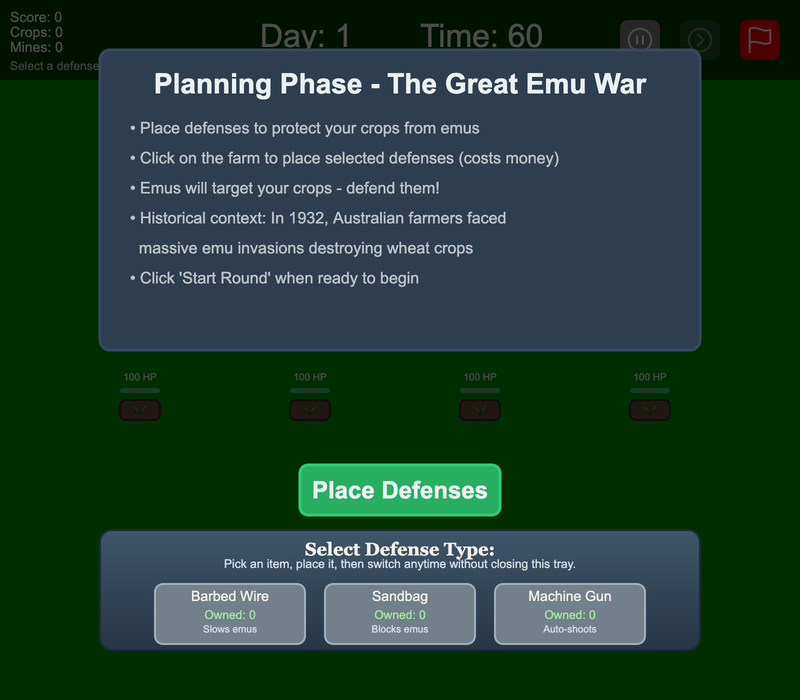
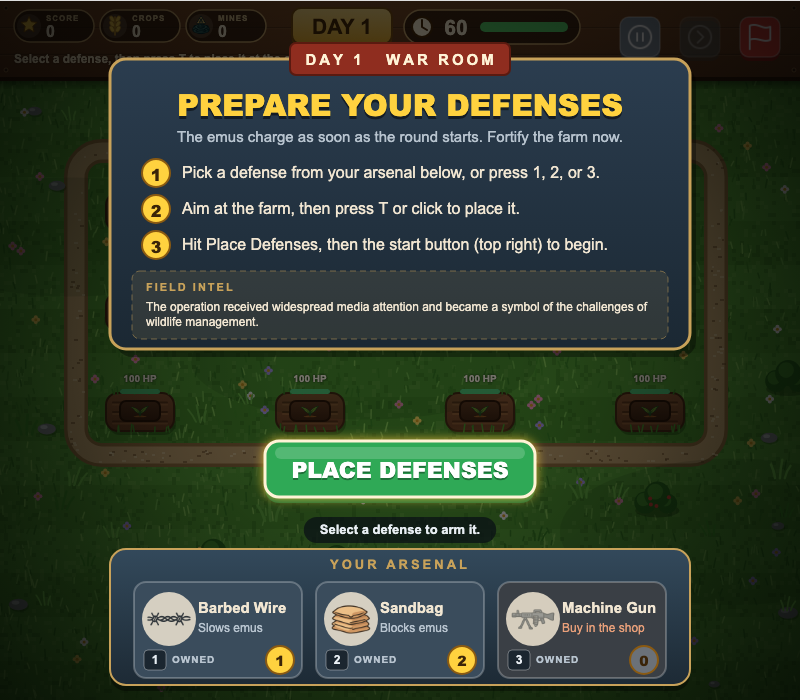
Update README screenshots

diff --git a/README.md b/README.md
@@ -18,11 +18,17 @@ No install needed.
 2. Start a new run from the main menu (or continue a saved one).
 3. Survive each day: protect your crops, place defenses, and use minigames for extra rewards.
 
-![Farm planning phase on Day 1 with crops and defense tips](docs/screenshots/farm.png)
+![Farm planning: Day 1 war room with field intel, numbered steps, and the defense arsenal](docs/screenshots/farm.png)
+
+![Farm field: grassy crop plot with wooden HUD, dirt path, and a sandbag ready to place](docs/screenshots/farm-field.png)
+
+![Morning market stall with the gazette, wallet chips, and shop buttons](docs/screenshots/market.png)
 
 ![Egg raid intro: Night Raid controls and objectives](docs/screenshots/egg-raid-intro.png)
 
 ![Egg raid minigame: sneak through a dark hedge maze by lantern light to collect emu eggs](docs/screenshots/egg-raid.png)
+
+![Game over: Hall of Fame leaderboard with medals and your highlighted run](docs/screenshots/game-over.png)
 
 ## How to play
 
